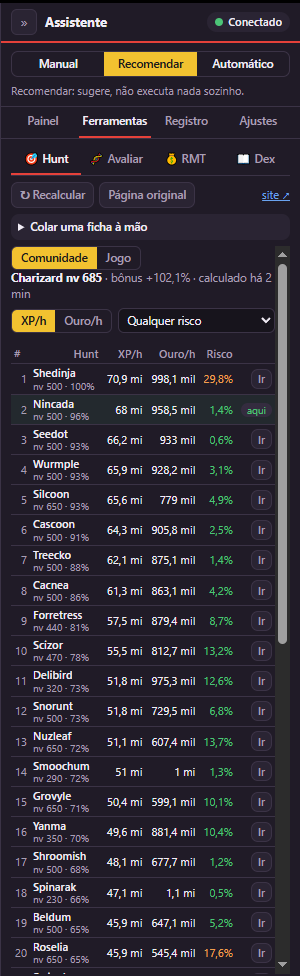
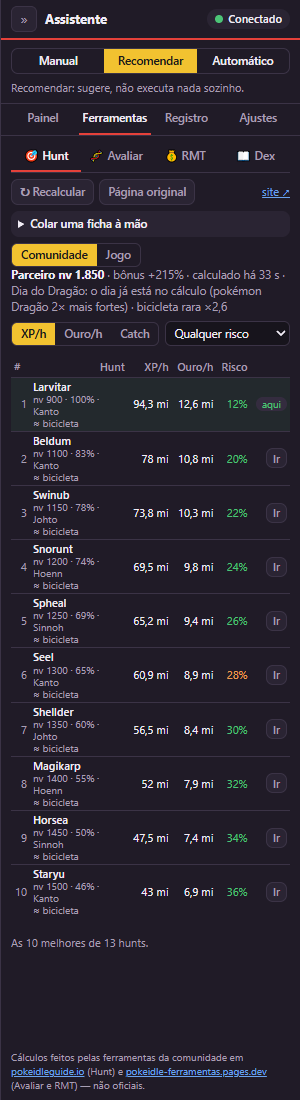
README: funções novas e telas atualizadas

Changed region(s): [[0.0, 0.0, 1.0, 1.0], [0.93, 0.9836, 0.96, 1.0]]

diff --git a/README.md b/README.md
@@ -4,8 +4,8 @@
 
 # PokeIdle Deck
 
-**Jogue o PokeIdle com até 4 contas numa janela só — com um assistente que recomenda a melhor hunt,
-abre as lives que dão bônus de XP e cuida da loja para você.**
+**Jogue o PokeIdle com até 4 contas numa janela só — com um assistente que recomenda onde caçar, cuida das lives que
+dão bônus, vigia o Mercado e faz as tarefas do dia por você.**
 
 [![Versão](imagens/selo-versao.svg)](https://github.com/Xutezin/pokeidle-deck/releases/latest)
 [![Downloads](imagens/selo-downloads.svg)](https://github.com/Xutezin/pokeidle-deck/releases)
@@ -18,52 +18,117 @@ abre as lives que dão bônus de XP e cuida da loja para você.**
 
 <img src="imagens/tela-principal.png" alt="O PokeIdle Deck com o jogo no meio, as contas à esquerda e o assistente à direita" width="900">
 
+<sub>Os valores que aparecem nas telas desta página são de exemplo.</sub>
+
 </div>
 
 ---
 
-## ✨ O que ele faz
+## 🆕 Novidades recentes
 
-### 🎮 Várias contas, um app leve
+| | |
+|---|---|
+| 🏆 **Top Catch da semana** | Espécies capturadas, próximo marco, sua posição no ranking e quantas dá para capturar até domingo |
+| 🎯 **Hunt de catch** | Fila das hunts com espécie nova; o Automático pode seguir essa fila sozinho |
+| 🎲 **Prey automático** | Faz a roleta grátis do dia e escolhe o pokémon — nunca gasta Coins |
+| 🛰 **Radar do Mercado** | Filtros iguais aos da loja do jogo, sorteio da liberação e histórico das compras |
+| 🌧 **Dia Sazonal** | A tipagem do dia entra na recomendação de hunt, junto com bicicleta e AoE |
+| 💰 **Patrimônio** | Quanto a sua conta vale em Gemas |
+
+A lista completa de cada versão está nas [Releases](https://github.com/Xutezin/pokeidle-deck/releases).
+
+---
+
+## 🎮 Várias contas, um app leve
+
 - **Até 4 contas**, cada uma com o próprio login — troque com um clique ou **Ctrl+1…4**. As outras continuam
   jogando escondidas.
-- **Tela dividida**: veja todas as contas ao mesmo tempo.
-- Gasta bem menos memória que várias abas do navegador, com **modo econômico** para as contas em segundo plano.
+- **Tela dividida** para ver todas ao mesmo tempo.
+- **Modo econômico** para gastar menos memória e CPU com as contas em segundo plano; o app mostra quanto cada uma usa.
+- Pode ficar na **bandeja** (perto do relógio) e **abrir junto com o Windows**.
 - Login com **Google, Discord ou e-mail**, como no navegador. O app nunca vê a sua senha.
 
-### 🧠 Assistente
-- Recomenda a **melhor hunt** para o seu pokémon — por XP ou ouro, com **alerta de risco** e a 2ª melhor opção.
+<div align="center">
+<img src="imagens/tela-dividida.png" alt="Tela dividida com três contas abertas ao mesmo tempo" width="900">
+</div>
+
+---
+
+## 🧠 Assistente
+
+<img src="imagens/painel.png" alt="O Painel com o resumo da conta, as compras do radar, o Top Catch e o Prey" width="270" align="right">
+
+Três modos: **Manual**, **Recomendar** (só sugere) e **Automático** (executa só o que você liberar). A tecla **Esc**
+é a parada de emergência.
+
+- Recomenda a **melhor hunt** para o seu pokémon por **XP, ouro ou catch**, com alerta de risco.
 - Avisa quando o HP está baixo, leva ao Centro Pokémon e **volta a caçar** depois.
-- Três modos: **Manual**, **Recomendar** (só sugere) ou **Automático** (executa só o que você liberar).
-- **Esc** é a parada de emergência.
+- Mostra o **Dia Sazonal** e quando ele vira.
+- **Coleta o Passe de Batalha** todo dia, para a sequência não zerar.
+- **Volta sozinho** se a conta abrir em outro aparelho ou se o servidor do jogo cair.
+- **Notificações** de drop e de shiny, com cada som ligado ou desligado separadamente.
 
-### 📺 Bônus das lives (Twitch e Kick)
-- Abre sozinho as **lives oficiais** que estão no ar — escondidas, sem som e na menor qualidade — e fecha quando
-  acabam. Na Twitch, dá até para pausar o vídeo (o bônus só olha o chat).
-- Na Kick, fica nos canais com **mais pontos** e **resgata o bônus sozinho** (+15% XP, Capture Boost ou Secret Lure)
-  quando o atual está acabando.
+### 🏆 Top Catch e Prey
 
-### 🛒 Loja no automático
-- **Compra pokebolas e poções** quando faltam, com uma reserva de ouro que nunca é tocada.
-- **Vende os pokémon de nota baixa** do Depot — nunca o ativo, a equipe, a Coleção, shiny ou P5.
+- **Top Catch:** marcos da semana, prêmio do próximo, quando a semana fecha, sua posição no ranking e uma
+  estimativa de quantas espécies novas o seu pokémon ainda consegue capturar.
+- **Prey:** o app faz a roleta grátis do dia e escolhe um pokémon que aparece nas suas melhores hunts. As roletadas
+  pagas e a compra da 2ª cartela **nunca** são feitas por ele.
 
-### 📖 Ferramentas
-- **Hunt**: XP, ouro e risco de cada hunt, com "Ir" para caçar lá.
-- **Avaliar**: a nota oficial do jogo e os pontos fortes do pokémon.
-- **Dex**: Pokédex com status, evolução, drops e onde cada um aparece.
+<br clear="right">
 
-### 🔄 Sempre atualizado
-Quando sai versão nova, aparece **"⬆ disponível"** no app: um clique atualiza, sem perder contas nem ajustes.
+---
+
+## 🎯 Onde caçar
 
 <div align="center">
-<img src="imagens/contas.png" alt="A barra de contas: troca rápida entre as contas, memória e o modo econômico" width="200">
-&nbsp;
-<img src="imagens/hunt.png" alt="A ferramenta Hunt: XP, ouro e risco de cada hunt, com o botão Ir" width="260">
-&nbsp;
-<img src="imagens/registro.png" alt="O registro mostrando a compra e a venda automáticas" width="260">
+<img src="imagens/hunt.png" alt="Hunt com as 10 melhores por XP por hora, ouro e risco" width="270">
+&nbsp;&nbsp;
+<img src="imagens/catch.png" alt="Fila do catch com as hunts que ainda têm espécie nova" width="270">
 <br>
-<sub>Contas · Hunt (XP, ouro e risco de cada hunt) · Registro com a compra e a venda automáticas</sub>
+<sub>As 10 melhores por XP ou ouro · Fila do catch</sub>
 </div>
+
+- XP, ouro e risco de cada hunt, com o botão **Ir** para caçar lá.
+- O **tipo do dia**, o **AoE** e a **bicicleta** entram sozinhos na conta.
+- **Catch:** da hunt de nível mais baixo à mais alta que o seu pokémon aguenta, mostrando as espécies que faltam.
+
+---
+
+## 📺 Bônus das lives (Twitch e Kick)
+
+- Abre sozinho as **lives dos canais oficiais**, escondidas e sem som, e acompanha os pontos de cada canal.
+- **Resgata o bônus** (XP, Capture Boost ou Secret Lure) quando o atual está acabando; o resto dos pontos fica
+  guardado.
+- As contas da Twitch e da Kick precisam estar vinculadas no jogo e logadas no app. Cada live aberta usa memória.
+
+---
+
+## 🛒 Loja e Mercado
+
+<img src="imagens/radar.png" alt="Alvos do Radar do Mercado com os filtros da loja do jogo" width="270" align="right">
+
+- **Compra pokebolas e poções** quando faltam, com uma reserva de ouro que nunca é tocada.
+- **Vende os pokémon de nota baixa** do Depot — nunca o ativo, a equipe, a Coleção, shiny ou P5.
+- **Radar do Mercado:** escolha itens ou pokémon (P5, Z-Move, AoE, nível, qualidade, preço…) e ele avisa quando
+  aparecer. Só **compra sozinho** os alvos que você marcar.
+- Mostra se o pedido **entrou no sorteio**, quem levou e o **histórico de compras**.
+
+<br clear="right">
+
+---
+
+## 📖 Ferramentas
+
+<img src="imagens/dex.png" alt="A Pokédex do app mostrando status e evolução" width="270" align="right">
+
+- **Avaliar:** a nota oficial do jogo e os pontos fortes do pokémon.
+- **Dex:** status, evolução, drops e onde cada um aparece.
+- **RMT:** câmbio da Gema, conversor e o **patrimônio** da conta em Gemas.
+
+Quando sai versão nova, aparece **"⬆ disponível"** no app: um clique atualiza, sem perder contas nem ajustes.
+
+<br clear="right">
 
 ---
 
@@ -85,6 +150,7 @@ Windows 10 — se faltar, o instalador mostra o link.
 
 - O login é feito **na página do próprio jogo**. O app nunca vê nem guarda senha.
 - Contas, logins e ajustes ficam **só no seu computador**.
+- Gastar Coins ou Gemas depende sempre de uma opção que **você** liga.
 - Toda atualização é **conferida** antes de instalar: se o arquivo não for o publicado aqui, ele é recusado.
 - Baixe **só por este link**. Ao doar pelo Pix, o recebedor que aparece no banco é **LEONARDO VIEIRA DE MORAIS** —
   qualquer outro nome não é deste projeto.
